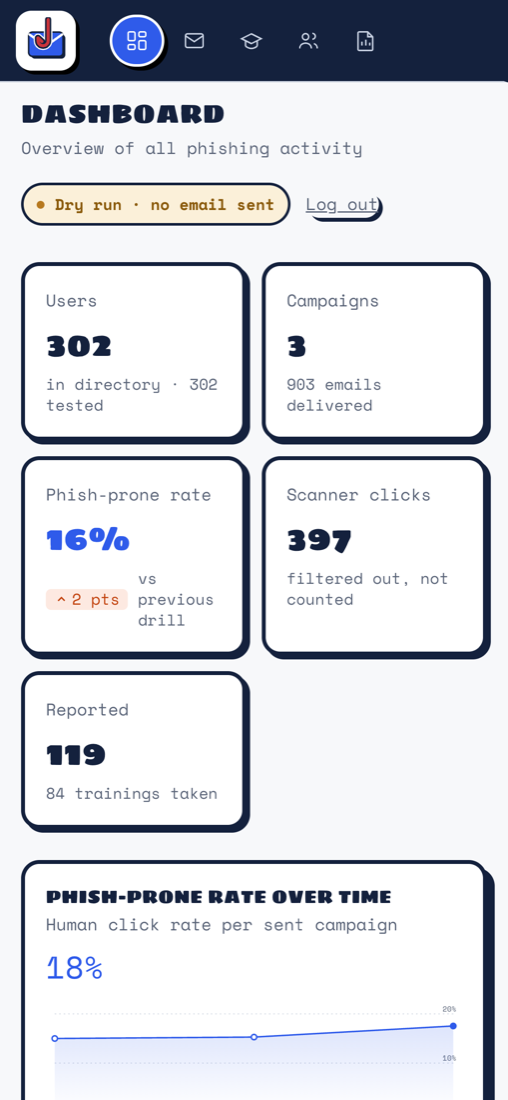
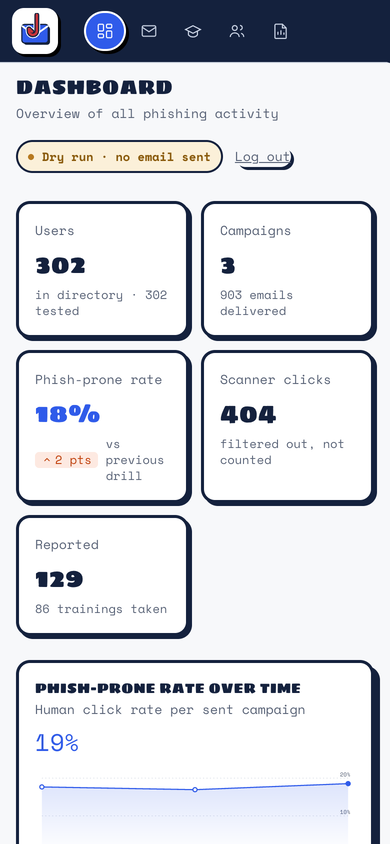
README: real privacy and governance screenshots, even layout
The images under 'Privacy and governance' showed the campaign, reports and
mobile views (not governance), and the mixed sizes rendered tiny and uneven.

- Privacy and governance now shows the features: the Users page with the
  consent checkbox, ethics-gate note, Consented column and per-person Erase
  (right to erasure), beside the admin audit trail
- The other views move to 'More screens' as an equal-size pair, with the
  phone view on its own row
- All captures are viewport-sized (1200 px wide) instead of full-page

diff --git a/README.md b/README.md
@@ -74,9 +74,19 @@ can read.
   that anonymises a person everywhere while keeping campaign totals correct
 - Audit log of admin actions
 
-| Campaign detail | Trend and group breakdown | Mobile |
-| --- | --- | --- |
-| ![Campaign](docs/screenshots/campaign.png) | ![Reports](docs/screenshots/reports.png) | ![Mobile](docs/screenshots/mobile-dashboard.png) |
+<p>
+  <img src="docs/screenshots/governance-consent-erasure.png" width="49%" alt="Users page: the Consented column, the ethics-gate note that only consenting users can be sent a drill, and an Erase button on every row">
+  <img src="docs/screenshots/governance-audit-log.png" width="49%" alt="Admin activity audit trail: sign-ins, campaign create and send, and staff imports with timestamp, admin and IP">
+</p>
+<p><sub>Left: consent gate and per-person right-to-erasure. Right: the audit trail of every admin action.</sub></p>
+
+**More screens**
+
+<p>
+  <img src="docs/screenshots/campaign.png" width="49%" alt="Campaign detail: opens, human clicks, scanner clicks and reporting metrics">
+  <img src="docs/screenshots/reports.png" width="49%" alt="Reports: trend across campaigns and breakdown by staff group">
+</p>
+<p align="center"><img src="docs/screenshots/mobile-dashboard.png" width="260" alt="The dashboard on a phone"><br><sub>Works on phones too.</sub></p>
 
 ## Security
 
